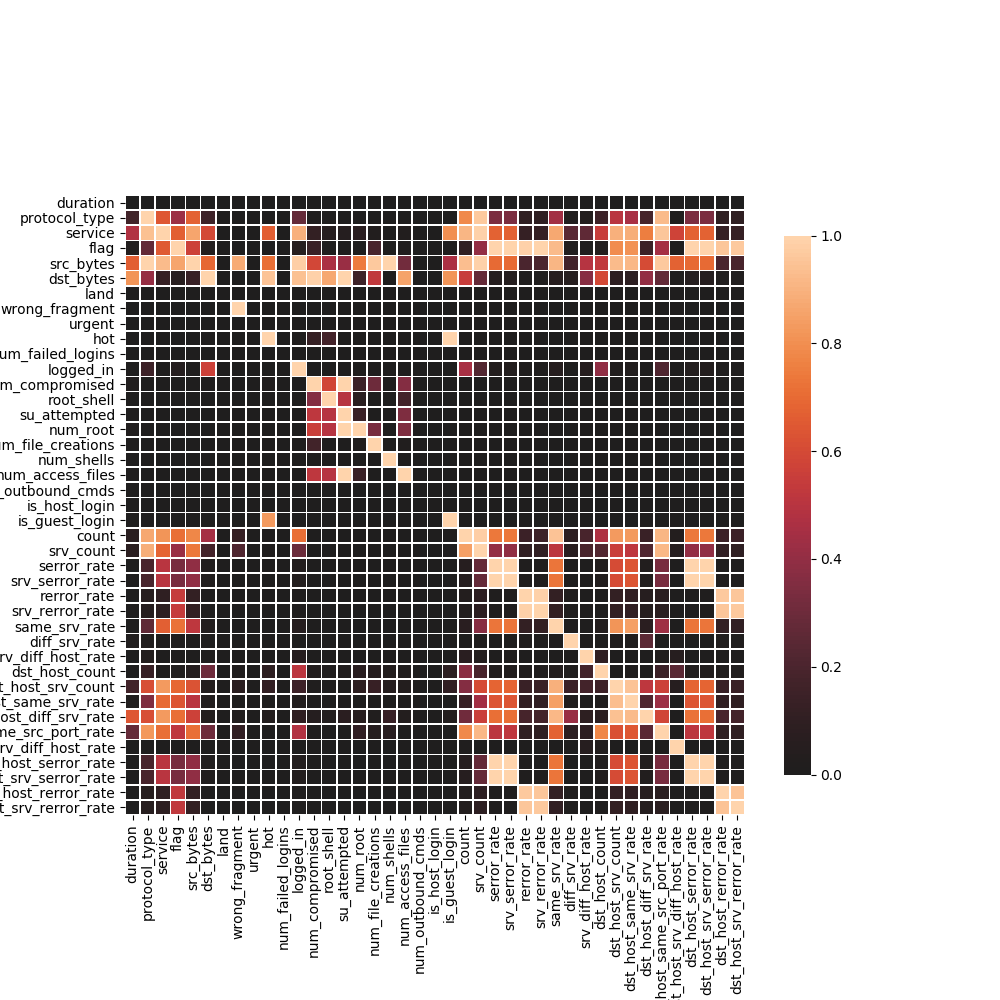
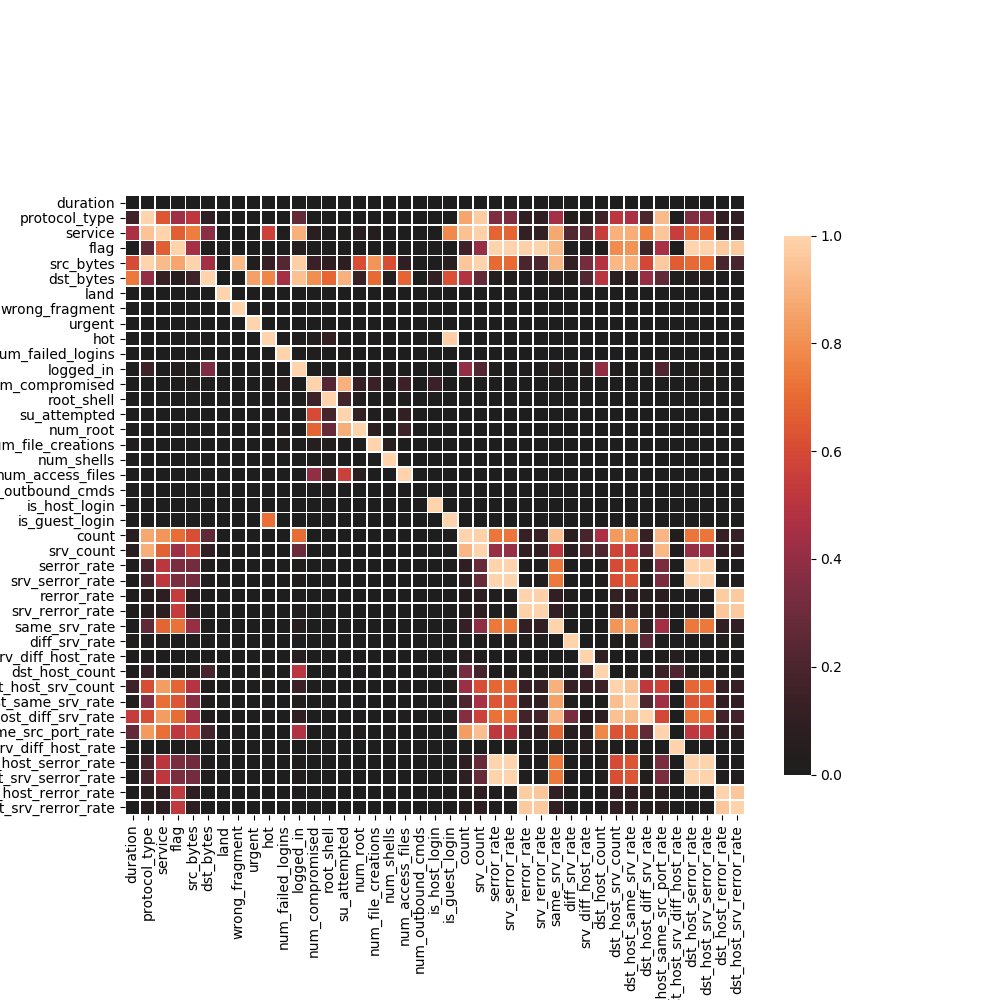
Added the ability to pull from the duplicates-less dataset.

diff --git a/ML/OOD/mysql.py b/ML/OOD/mysql.py
@@ -373,35 +373,52 @@ class SQLConnector(object):
         finally:
             pass
 
-    def pull_kdd99(self, attack, num):
+    def pull_kdd99(self, attack, num, nodupes = False):
         """ Returns randomly shuffled data by attack type """
         self._use_datasets()
         try:
             with self.connection.cursor() as cursor:
-                sql = """
-                        select *
-                        from kdd99
-                        where attack_type like %s
-                        order by RAND ()
-                        limit %s;
-                    """
+                if nodupes:
+                    sql = """
+                            select *
+                            from kdd99_dupless
+                            where attack_type like %s
+                            order by RAND ()
+                            limit %s;
+                        """
+                else:
+                    sql = """
+                            select *
+                            from kdd99
+                            where attack_type like %s
+                            order by RAND ()
+                            limit %s;
+                        """
                 cursor.execute(sql, ('%'+str(attack)+'%', num))
                 result = cursor.fetchall()
                 return result
         finally:
             pass
     
-    def pull_all_attacks(self, num):
+    def pull_all_attacks(self, num, nodupes = False):
         """ Returns randomly shuffled data by attack type """
         self._use_datasets()
         try:
             with self.connection.cursor() as cursor:
-                sql = """
-                        select *
-                        from kdd99
-                        order by RAND ()
-                        limit %s;
-                    """
+                if nodupes:
+                    sql = """
+                            select *
+                            from kdd99_dupless
+                            order by RAND ()
+                            limit %s;
+                        """
+                else:
+                    sql = """
+                            select *
+                            from kdd99
+                            order by RAND ()
+                            limit %s;
+                        """
                 cursor.execute(sql, num)
                 result = cursor.fetchall()
                 return result

diff --git a/ML/OOD/CorrelationTest.py b/ML/OOD/CorrelationTest.py
@@ -54,7 +54,7 @@ def main(argv):
     host = args.host
 
     conn = SQLConnector(host = host)
-    data = conn.pull_all_attacks(num)
+    data = conn.pull_all_attacks(num, nodupes = True)
     columns = conn.pull_kdd99_columns()
     col_len = len(columns) - 1
     dataframe = pd.DataFrame(data=data, columns=columns)
